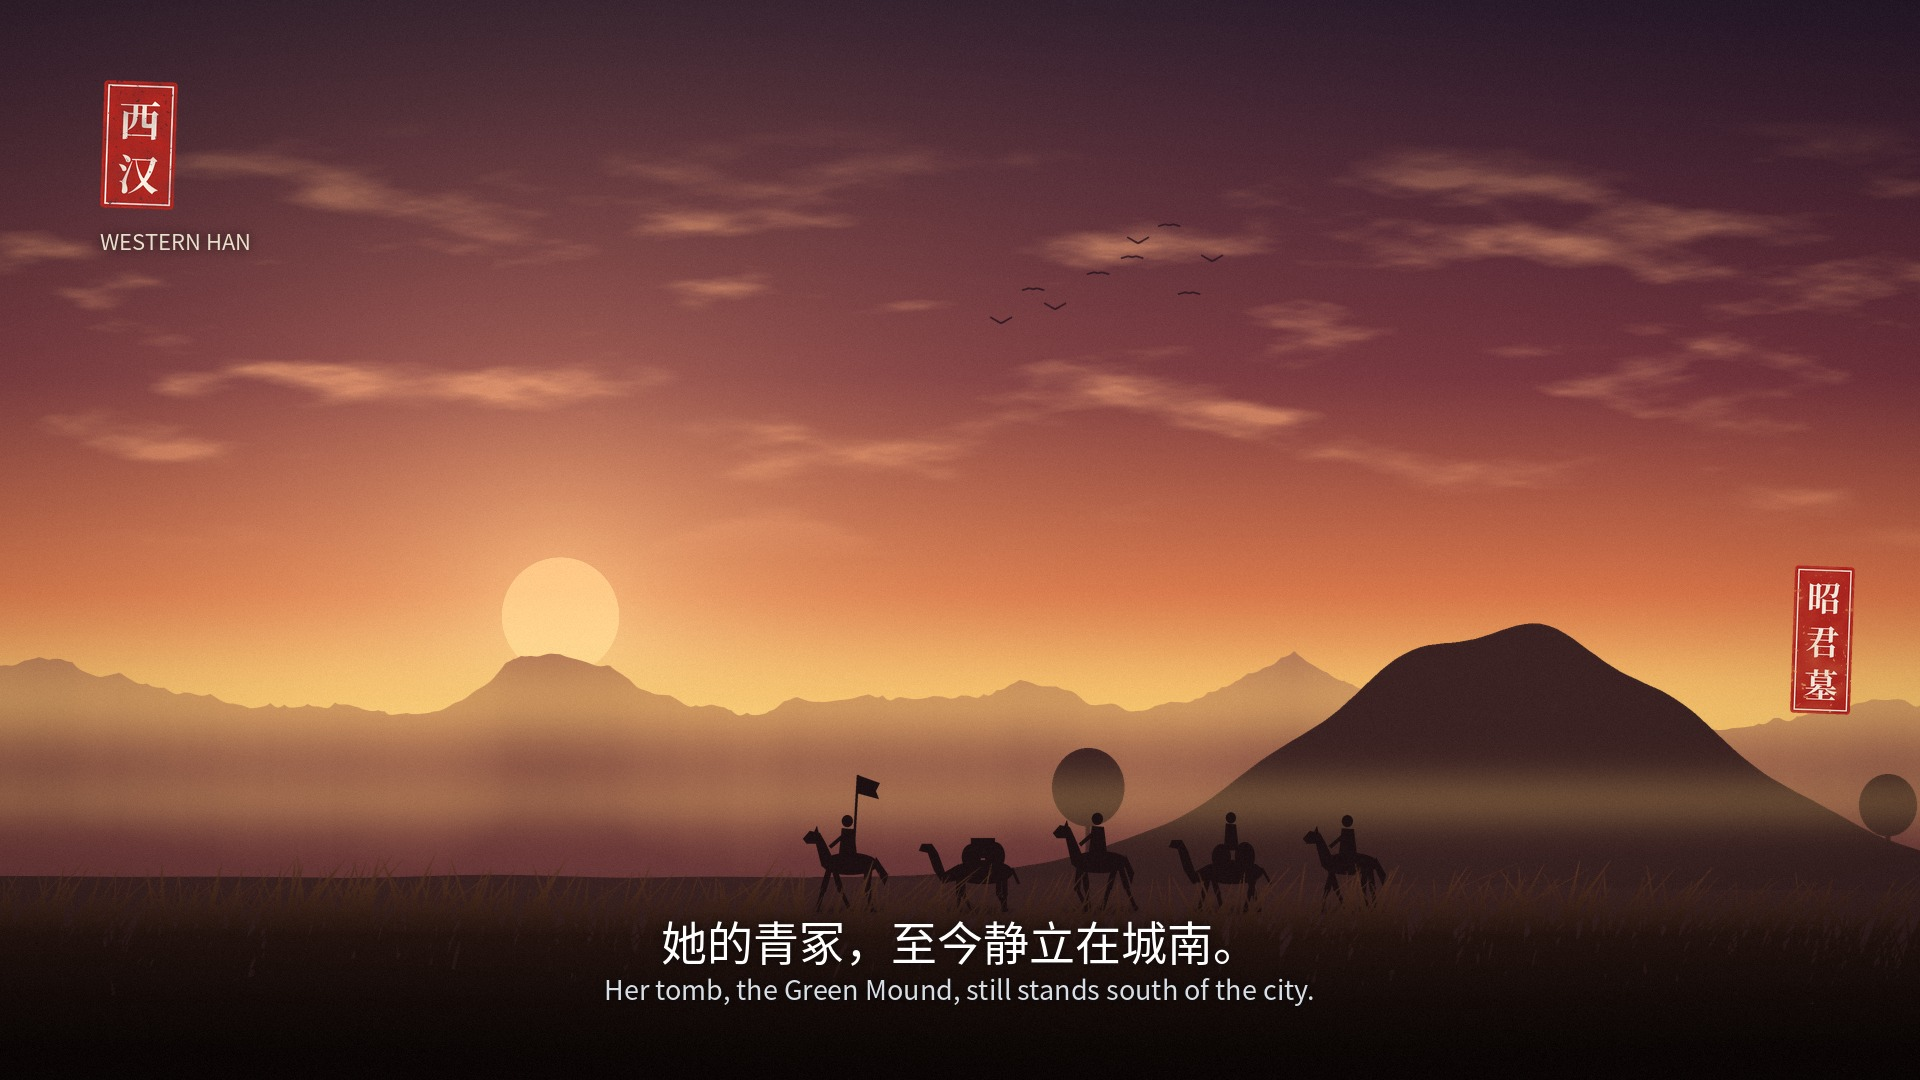
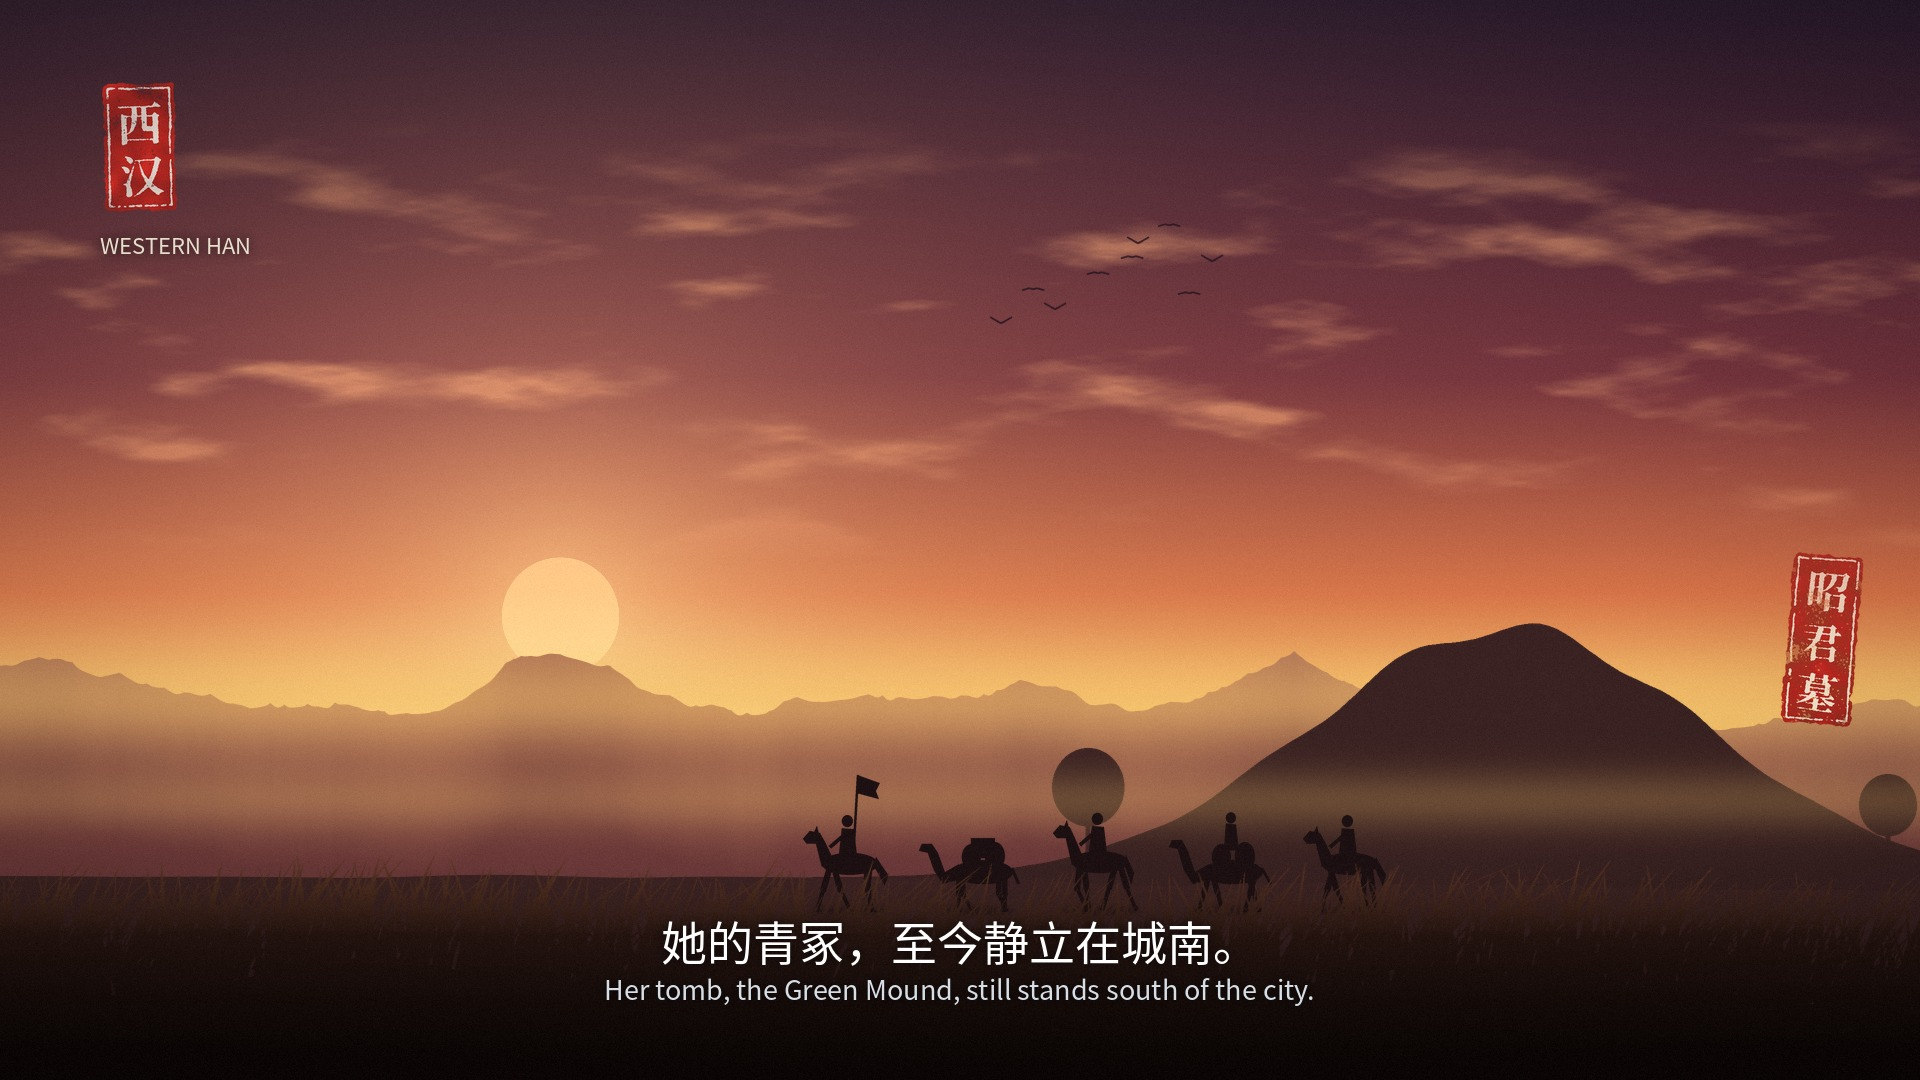
narrated2: 印章改为手刻手盖效果；1954 场景改为当年的低矮城貌与老照片色调
Claude-Session: https://claude.ai/code/session_01VdfstadhBSKPBnt6XvW66x

Changed region(s): [[0.0312, 0.0611, 0.125, 0.2444], [0.9062, 0.4889, 0.9688, 0.6722]]

diff --git a/narrated2/render.py b/narrated2/render.py
@@ -479,31 +479,91 @@ SEAL_RED = (178, 38, 32)
 SEAL_INK = (250, 241, 228)
 
 
-def seal_img(text, cell=60, seed=0, rot=-2.0):
-    """白文方印：红底白字，竖排、从右往左读；带印泥的斑驳和不齐的边"""
+def _wobbly(p0, p1, n, amp, rng):
+    """一条手刻的边：两点之间加平滑的随机起伏"""
+    t = np.linspace(0, 1, n)
+    off = np.cumsum(rng.normal(0, 1, n)); off -= np.linspace(off[0], off[-1], n); off *= amp / (np.abs(off).max() + 1e-6)
+    d = np.array(p1, float) - np.array(p0, float); nrm = np.array([-d[1], d[0]]) / np.linalg.norm(d)
+    return [tuple(np.array(p0) + d * ti + nrm * oi) for ti, oi in zip(t, off)]
+
+
+def _rough(mask, rng, blur, amp, sharp=6.0):
+    """把边缘做毛：先模糊，再用噪声扰动阈值"""
+    m = gaussian_filter(mask, blur)
+    nz = gaussian_filter(rng.standard_normal(mask.shape), blur * 0.8); nz /= nz.std() + 1e-6
+    return np.clip((m - 0.5 + amp * nz) * sharp + 0.5, 0, 1)
+
+
+def seal_img(text, cell=60, seed=0, rot=None):
+    """白文印章，模仿手刻手盖：边缘不齐带崩口、内框断续、笔画毛糙、字有错落、印泥浓淡不匀"""
+    rng = np.random.default_rng(seed + 17)
     n = len(text)
     cols, rows = {1: (1, 1), 2: (1, 2), 3: (1, 3), 4: (2, 2)}[n]
-    pad = int(cell * 0.2)
-    w, h = cols * cell + 2 * pad, rows * cell + 2 * pad
     S = 3
-    img = Image.new("RGBA", (w * S, h * S), (0, 0, 0, 0))
-    d = ImageDraw.Draw(img)
-    d.rounded_rectangle([0, 0, w * S - 1, h * S - 1], radius=int(cell * 0.07 * S), fill=SEAL_RED + (255,))
-    inset, bw = int(cell * 0.08 * S), max(int(cell * 0.035 * S), 2)
-    d.rectangle([inset, inset, w * S - inset, h * S - inset], outline=SEAL_INK + (255,), width=bw)
-    f = ImageFont.truetype(FONT_DIR + "NotoSerifCJK-Bold.ttc", int(cell * 0.78 * S), index=2)
+    c = cell * S
+    pad = int(cell * 0.2) * S
+    w, h = cols * c + 2 * pad, rows * c + 2 * pad
+    w = int(w * rng.uniform(0.97, 1.04))                   # 印面不是正正方方的
+    m = int(cell * 0.3 * S)
+    Wc, Hc = w + 2 * m, h + 2 * m
+    # 1) 印面外形：四条起伏的边 + 不同的圆角
+    corners = [(m, m), (m + w, m), (m + w, m + h), (m, m + h)]
+    pts = []
+    for i in range(4):
+        p0, p1 = corners[i], corners[(i + 1) % 4]
+        L = np.hypot(p1[0] - p0[0], p1[1] - p0[1])
+        r = rng.uniform(0.02, 0.09) * c
+        dx, dy = (p1[0] - p0[0]) / L, (p1[1] - p0[1]) / L
+        pts += _wobbly((p0[0] + dx * r, p0[1] + dy * r), (p1[0] - dx * r, p1[1] - dy * r), 14, c * 0.022, rng)
+    blk = Image.new("L", (Wc, Hc), 0)
+    db = ImageDraw.Draw(blk)
+    db.polygon(pts, fill=255)
+    for _ in range(rng.integers(3, 7)):                    # 崩口
+        side = rng.integers(4); t = rng.uniform(0.1, 0.9); r = rng.uniform(0.03, 0.08) * c
+        x, y = [(m + t * w, m), (m + w, m + t * h), (m + t * w, m + h), (m, m + t * h)][side]
+        db.ellipse([x - r, y - r * 0.7, x + r, y + r * 0.7], fill=0)
+    # 2) 白色部分：内框（有断口、粗细不一）+ 字
+    wht = Image.new("L", (Wc, Hc), 0)
+    dw = ImageDraw.Draw(wht)
+    ins = cell * 0.09 * S
+    ic = [(m + ins, m + ins), (m + w - ins, m + ins), (m + w - ins, m + h - ins), (m + ins, m + h - ins)]
+    for i in range(4):
+        line = _wobbly(ic[i], ic[(i + 1) % 4], 24, c * 0.012, rng)
+        for j in range(len(line) - 1):
+            if rng.random() < 0.1:
+                continue                                    # 断口
+            dw.line([line[j], line[j + 1]], fill=255, width=max(int(cell * rng.uniform(0.03, 0.05) * S), 2))
+    f = ImageFont.truetype(FONT_DIR + "NotoSerifCJK-Bold.ttc", int(cell * 0.8 * S), index=2)
     for i, ch in enumerate(text):
-        c, r = cols - 1 - i // rows, i % rows
-        d.text(((pad + c * cell + cell / 2) * S, (pad + r * cell + cell / 2) * S), ch, font=f,
-               fill=SEAL_INK + (255,), anchor="mm")
-    img = img.rotate(rot, resample=Image.BICUBIC, expand=True)
+        col, row = cols - 1 - i // rows, i % rows
+        sz = int(c * rng.uniform(1.15, 1.3))
+        g = Image.new("L", (sz, sz), 0)
+        ImageDraw.Draw(g).text((sz / 2, sz / 2), ch, font=ImageFont.truetype(FONT_DIR + "NotoSerifCJK-Bold.ttc",
+                               int(c * rng.uniform(0.8, 0.88)), index=2), fill=255, anchor="mm")
+        g = g.rotate(rng.uniform(-4, 4), resample=Image.BICUBIC)
+        cx = m + pad + col * c + c / 2 + rng.normal(0, 0.03) * c + (w - (cols * c + 2 * pad)) / 2
+        cy = m + pad + row * c + c / 2 + rng.normal(0, 0.03) * c
+        wht.paste(255, (int(cx - sz / 2), int(cy - sz / 2)), g)
+    blk_a = np.asarray(blk, np.float32) / 255
+    B = _rough(blk_a, rng, 1.6 * S, 0.1, 12.0) * (gaussian_filter(blk_a, 1.2 * S) > 0.2)   # 毛边，但不往外溅点
+    Wm = _rough(np.asarray(wht, np.float32) / 255, rng, 0.6 * S, 0.1, 5.0)
+    # 3) 印泥：一边重一边轻、斑驳、漏白
+    yy, xx = np.mgrid[0:Hc, 0:Wc].astype(np.float32)
+    ang = rng.uniform(0, 2 * np.pi)
+    ramp = (np.cos(ang) * (xx - Wc / 2) + np.sin(ang) * (yy - Hc / 2)) / max(Wc, Hc)
+    big = gaussian_filter(rng.standard_normal((Hc, Wc)), 6 * S); big /= big.std()
+    fine = gaussian_filter(rng.standard_normal((Hc, Wc)), 0.7 * S); fine /= fine.std()
+    ink = np.clip(0.9 + 0.18 * ramp + 0.05 * big, 0.68, 1.0)
+    ink *= np.where(fine > 2.0, 0.35, 1.0) * np.where(big + 0.6 * fine < -2.3, 0.45, 1.0)
+    red = np.array(SEAL_RED, np.float32) / 255 * (0.95 + 0.07 * big[..., None])
+    paper = np.array(SEAL_INK, np.float32) / 255
+    rgb = red * (1 - Wm[..., None]) + paper * Wm[..., None]
+    alpha = B * ink * (1 - 0.15 * Wm)
+    img = Image.fromarray((np.clip(np.dstack([rgb, alpha]), 0, 1) * 255).astype(np.uint8), "RGBA")
+    img = img.rotate(rng.uniform(-5, 5) if rot is None else rot, resample=Image.BICUBIC, expand=True)
     arr = np.asarray(img.resize((img.width // S, img.height // S), Image.LANCZOS), np.float32) / 255
-    rng = np.random.default_rng(seed)
-    hh, ww = arr.shape[:2]
-    n1 = gaussian_filter(rng.standard_normal((hh, ww)), 1.0); n1 /= n1.std()
-    n2 = gaussian_filter(rng.standard_normal((hh, ww)), 5.0); n2 /= n2.std()
-    arr[..., 3] *= np.clip(0.93 + 0.07 * n2 - 0.6 * np.clip(n1 - 1.5, 0, 1), 0.2, 1)
-    return arr
+    ys, xs = np.where(arr[..., 3] > 0.01)
+    return arr[ys.min():ys.max() + 1, xs.min():xs.max() + 1]
 
 
 def to_pil(rgba):
@@ -711,7 +771,7 @@ class HanTomb(Scene):
         self.layers = [self.cl, far, haze(700, 45, hz, 0.5), mound, haze(800, 30, hz, 0.25), near, self._parade,
                        grass(44, 975, C("#7a4a30"), C("#2a1712"), C("#140b09"), 22, amp=9)]
         self.birds = Flock(45, 9, 1500, 330, -38, -4, C("#2b1520"))
-        self.seals = [(seal_img("昭君墓", 44, seed=3), 1935, 640, 8, local_t("han", "han", 2))]
+        self.seals = [(seal_img("昭君墓", 50, seed=3), 1935, 640, 8, local_t("han", "han", 2))]
 
     def _mound(self, d, k):
         cx, base = 1620, 878
@@ -787,7 +847,7 @@ class MingCity(Scene):
                        grass(64, 1000, C("#8c6a3a"), C("#2e1f12"), C("#140d08"), 20, blade=(30, 110), amp=8)]
         self.k_smoke = kernel(18)
         self.birds = Flock(65, 7, 1900, 280, -30, 3, C("#3a2420"))
-        self.seals = [(seal_img("大召寺", 44, seed=4), 1885, 560, 8, local_t("ming", "ming", 2))]
+        self.seals = [(seal_img("大召寺", 50, seed=4), 1885, 560, 8, local_t("ming", "ming", 2))]
 
     def _smoke(self, f, tl):
         a = np.zeros((H, W), np.float32)
@@ -995,7 +1055,7 @@ class TodayScene(Scene):
         self.t_milk = local_t("today", "modern", 2)
         self.t_cloud = local_t("today", "modern", 3)
         self.seals = [(seal_img("乳都", 52, seed=7), 1230, 800, 10, self.t_milk),
-                      (seal_img("云计算", 44, seed=8), 1545, 262, 0, self.t_cloud)]
+                      (seal_img("云计算", 50, seed=8), 1545, 262, 0, self.t_cloud)]
         self._build_cloud()
 
     def _datacenter(self, d, k):
@@ -1081,6 +1141,114 @@ class TodayScene(Scene):
         add_light(f, b, C("#86dcff"))
 
 
+class Guisui1954(Scene):
+    """1954：归绥更名呼和浩特。低矮平房、四合院、几栋两三层砖楼、老城门、工厂烟囱、电线杆、马车；老照片色调"""
+    def __init__(self):
+        super().__init__()
+        self.sky = sky([(0, "#7f8e99"), (0.45, "#b9b6a6"), (0.68, "#e6d8b8"), (1, "#e6d8b8")])
+        hz = C("#e6d8b8")
+        self.cl = clouds(111, 80, 480, C("#f4ead2"), C("#8d8f8e"), 0.6, 4, thr=0.05, stretch=3)
+        far, _ = ridge(112, 660, 70, mix(C("#7d7f7a"), hz, 0.35), C("#6c6e69"), 2, ridged=True)
+        town = paint(self._town, 6)
+        road, _ = ridge(113, 878, 5, C("#a08e6c"), C("#6b5d45"), 12, octaves=2, f0=0.001, fade=50)
+        poles = paint(self._poles, 12)
+        col = C("#2a241c")
+        self.horse = gait_frames("horse", col, rider=False)
+        self.carts = [sprite(lambda d, k, a=i * np.pi / 16: self._cart(d, k, a), 120, 80, col) for i in range(8)]
+        self.layers = [self.cl, far, haze(700, 40, hz, 0.5), town, self._smoke, haze(845, 25, hz, 0.3), road,
+                       self._wagon, poles,
+                       grass(114, 1000, C("#a39568"), C("#4a4230"), C("#211d14"), 18, blade=(25, 90), amp=7)]
+        self.k_smoke = kernel(24)
+
+    def _town(self, d, k):
+        rng = np.random.default_rng(115)
+        base = 852
+        dark, wall, win = rgb255(C("#4b4337")), rgb255(C("#5d5444")), rgb255(C("#8f816a"))
+        # 老城门（归化城）
+        city_wall(d, k, 772, base, dark, 300, 760, merlon=22)
+        gate_tower(d, k, 530, 772, dark, rgb255(C("#8f816a")), rgb255(C("#2c271f")))
+        x = -30
+        while x < WW:
+            if 260 < x < 800:
+                x = 800
+            r = rng.random()
+            if r < 0.55:                                    # 平房 / 四合院：矮墙 + 小坡顶
+                w = rng.uniform(110, 190); hgt = rng.uniform(30, 44)
+                d.rectangle([x * k, (base - hgt) * k, (x + w) * k, base * k], fill=wall)
+                for j in range(int(w // 70) + 1):
+                    cx = x + 35 + j * 70
+                    if cx < x + w - 20:
+                        roof(d, k, cx, base - hgt + 2, 30, 16, dark)
+            elif r < 0.8:                                   # 两三层砖楼，平顶带女儿墙
+                w = rng.uniform(120, 200); fl = rng.integers(2, 4); hgt = fl * 30 + 8
+                d.rectangle([x * k, (base - hgt) * k, (x + w) * k, base * k], fill=dark)
+                d.rectangle([(x - 4) * k, (base - hgt - 6) * k, (x + w + 4) * k, (base - hgt) * k], fill=dark)
+                for f_ in range(fl):
+                    for wx in np.arange(x + 12, x + w - 16, 26):
+                        y0 = base - hgt + 12 + f_ * 30
+                        d.rectangle([wx * k, y0 * k, (wx + 10) * k, (y0 + 14) * k], fill=win)
+            else:                                           # 白杨树
+                w = rng.uniform(40, 70); th = rng.uniform(70, 120)
+                d.line([(x + w / 2) * k, base * k, (x + w / 2) * k, (base - th * 0.4) * k], fill=dark, width=int(4 * k))
+                d.ellipse([(x + w / 2 - 14) * k, (base - th) * k, (x + w / 2 + 14) * k, (base - th * 0.3) * k], fill=dark)
+            x += w + rng.uniform(4, 30)
+        # 工厂：锯齿形厂房 + 烟囱
+        for i in range(5):
+            x0 = 1380 + i * 60
+            d.polygon([(x0 * k, base * k), (x0 * k, (base - 60) * k), ((x0 + 46) * k, (base - 84) * k),
+                       ((x0 + 46) * k, (base - 60) * k), ((x0 + 60) * k, (base - 60) * k), ((x0 + 60) * k, base * k)], fill=dark)
+        d.rectangle([1370 * k, (base - 50) * k, 1700 * k, base * k], fill=dark)
+        d.polygon([(1695 * k, base * k), (1702 * k, 520 * k), (1720 * k, 520 * k), (1727 * k, base * k)], fill=dark)
+
+    def _poles(self, d, k):
+        col = rgb255(C("#2e281f"))
+        xs = list(range(120, WW, 300))
+        tops = []
+        for x in xs:
+            d.line([x * k, 905 * k, x * k, 690 * k], fill=col, width=int(5 * k))
+            d.line([(x - 26) * k, 700 * k, (x + 26) * k, 700 * k], fill=col, width=int(4 * k))
+            tops.append(x)
+        for a, b in zip(tops[:-1], tops[1:]):
+            for off in (-22, 22):
+                t = np.linspace(0, 1, 30)
+                pts = [((a + off + (b - a) * ti) * k, (700 + 26 * 4 * ti * (1 - ti)) * k) for ti in t]
+                d.line(pts, fill=col, width=int(1.5 * k))
+
+    def _cart(self, d, k, ang):
+        # 车厢、车辕、带辐条的木轮（ang 为车轮转角）
+        d.rectangle([10 * k, 30 * k, 92 * k, 46 * k], fill=255)
+        d.line([88 * k, 40 * k, 120 * k, 44 * k], fill=255, width=int(3 * k))
+        cx, cy, r = 50, 58, 20
+        d.ellipse([(cx - r) * k, (cy - r) * k, (cx + r) * k, (cy + r) * k], outline=255, width=int(3.5 * k))
+        for j in range(6):
+            a = ang + j * np.pi / 6
+            d.line([(cx - r * np.cos(a)) * k, (cy - r * np.sin(a)) * k, (cx + r * np.cos(a)) * k, (cy + r * np.sin(a)) * k],
+                   fill=255, width=int(2 * k))
+        d.polygon([(30 * k, 30 * k), (34 * k, 6 * k), (46 * k, 6 * k), (48 * k, 30 * k)], fill=255)   # 赶车人
+        d.ellipse([34 * k, -6 * k, 46 * k, 8 * k], fill=255)
+
+    def _wagon(self, f, tl):
+        rel = 42 * tl                                     # 相对地面走过的距离
+        x = 520 + 30 * tl
+        walk(f, self.horse, x, 898, rel / STRIDE["horse"], shadow=0.3)
+        put(f, SHADOW, x - 88, 905, 0.3)
+        put(f, self.carts[int(rel / 20 / (np.pi / 16)) % 8], x - 92, 900)
+
+    def _smoke(self, f, tl):
+        a = np.zeros((H, W), np.float32)
+        sx = 1711 - (30 + 6 * tl)
+        for j in range(22):
+            age = (tl * 0.25 + j / 22) % 1.0
+            stamp(a, sx + 220 * age ** 1.3 + 8 * np.sin(j + tl), 515 - 260 * age, self.k_smoke, 0.25 * (1 - age) * min(age * 8, 1))
+        over(f, a * 1.5, C("#6a645a"))
+
+    def post(self, f, tl):
+        # 老照片：去色 + 暖黄 + 轻微闪烁
+        lum = (f @ np.array([0.3, 0.59, 0.11], np.float32))[..., None]
+        sep = np.clip(lum * C("#ffe6bd") * 1.04 + 0.02, 0, 1)
+        f[:] = mix(f, sep, 0.8) * (1 + 0.012 * np.sin(tl * 23))
+
+
 # ====================================================================== 时间轴
 def build_timeline():
     ch = {c["id"]: c for c in TL["chapters"]}
@@ -1092,7 +1260,7 @@ def build_timeline():
     seq = [("open", 0.0, Grassland), ("prehistoric", ch["ancient"]["t0"], Prehistoric),
            ("zhao", split, ZhaoWall), ("han", ch["han"]["t0"], HanTomb), ("liao", ch["liao"]["t0"], LiaoPagoda),
            ("ming", ch["ming"]["t0"], MingCity), ("qing", ch["qing"]["t0"], QingCaravan),
-           ("modern", ch["modern"]["t0"], ModernCity),
+           ("modern", ch["modern"]["t0"], Guisui1954),
            ("today", split2, TodayScene), ("end", ch["end"]["t0"], lambda: Grassland(end=True))]
     return seq
 
